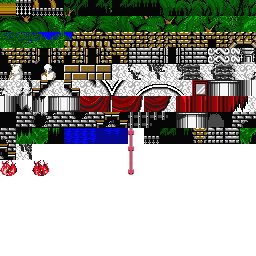
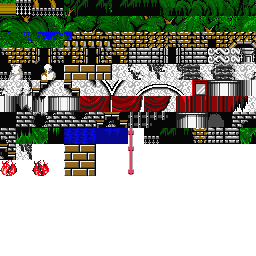
Block Entity has hitbox, Upgraded Cutscene (1h)
- Improved cutscene
- Block entity doesn't allow for movement.

Changed region(s): [[0.25, 0.5625, 0.375, 0.6875]]

diff --git a/src/Player.cpp b/src/Player.cpp
@@ -35,6 +35,8 @@ Player::Player(const Point& p, State s, Look view) :
 	playerTimer = 0;
 	startingHitTimer = 0;
 	startingHit = false;
+	patternCounter = 0;
+	touchingSolidEnemy = false;
 }
 Player::~Player()
 {
@@ -620,6 +622,14 @@ bool Player::GetIsHoldingShield() const
 {
 	return Player::isHoldingShield;
 }
+bool Player::GetTouchingSolidEnemy() const
+{
+	return touchingSolidEnemy;
+}
+void Player::SetTouchingSolidEnemy(bool setter)
+{
+	touchingSolidEnemy = setter;
+}
 void Player::SetHasYellowKey(bool boolean)
 {
 	hasYellowKey = boolean;
@@ -1178,75 +1188,42 @@ void Player::Update()
 }
 void Player::InitPattern()
 {
-	//const int n = ANIM_DELAY * 3;
-	//pattern.push_back({ {-PLAYER_SPEED, 0}, /*n*/0, (int)PlayerAnim::WALKING_LEFT });
-	//pattern.push_back({ {-PLAYER_SPEED, 0}, /*n*/0, (int)PlayerAnim::WALKING_LEFT });
-	//pattern.push_back({ {-PLAYER_SPEED, 0}, /*n*/0, (int)PlayerAnim::WALKING_LEFT });
-	//current_step = 0;
-	//current_frames = 0;
-	//patternFinished = false;
+
 	int i;
 	const int n = PLAYER_FRAME_SIZE_WIDTH;
 	const int h = PLAYER_FRAME_SIZE_HEIGHT;
 	Sprite* sprite = dynamic_cast<Sprite*>(render);
 	look = Look::LEFT;
 	sprite->SetAnimationDelay((int)PlayerAnim::CUTSCENE, ANIM_DELAY);
-	//for (i = 1; i < 3; ++i)
-	//{
-	//	sprite->AddKeyFrame((int)PlayerAnim::CUTSCENE, { (float)i * n, 0, -n, h });
-	//	sprite->AddKeyFrame((int)PlayerAnim::CUTSCENE, { (float)i * n, 0, -n, h });
-	//	sprite->AddKeyFrame((int)PlayerAnim::CUTSCENE, { (float)i * n, 0, -n, h });
 
-	//}
+	//Times for the walking animation to be repeated
+	for (int i = 0; i < 7; i++)
+	{
+		sprite->AddKeyFrame((int)PlayerAnim::CUTSCENE, { (float)0 * n, 0, -n, h });
+		sprite->AddKeyFrame((int)PlayerAnim::CUTSCENE, { (float)0 * n, 0, -n, h });
+		sprite->AddKeyFrame((int)PlayerAnim::CUTSCENE, { (float)1 * n, 0, -n, h });
+		sprite->AddKeyFrame((int)PlayerAnim::CUTSCENE, { (float)1 * n, 0, -n, h });
+		sprite->AddKeyFrame((int)PlayerAnim::CUTSCENE, { (float)2 * n, 0, -n, h });
+		sprite->AddKeyFrame((int)PlayerAnim::CUTSCENE, { (float)2 * n, 0, -n, h });
+		sprite->AddKeyFrame((int)PlayerAnim::CUTSCENE, { (float)1 * n, 0, -n, h });
+		sprite->AddKeyFrame((int)PlayerAnim::CUTSCENE, { (float)1 * n, 0, -n, h });
+	}
 	sprite->AddKeyFrame((int)PlayerAnim::CUTSCENE, { (float)0 * n, 0, -n, h });
-	sprite->AddKeyFrame((int)PlayerAnim::CUTSCENE, { (float)0 * n, 0, -n, h });
-	sprite->AddKeyFrame((int)PlayerAnim::CUTSCENE, { (float)1 * n, 0, -n, h });
-	sprite->AddKeyFrame((int)PlayerAnim::CUTSCENE, { (float)1 * n, 0, -n, h });
-	sprite->AddKeyFrame((int)PlayerAnim::CUTSCENE, { (float)2 * n, 0, -n, h });
-	sprite->AddKeyFrame((int)PlayerAnim::CUTSCENE, { (float)2 * n, 0, -n, h });
-	sprite->AddKeyFrame((int)PlayerAnim::CUTSCENE, { (float)1 * n, 0, -n, h });
-	sprite->AddKeyFrame((int)PlayerAnim::CUTSCENE, { (float)1 * n, 0, -n, h });
-	sprite->AddKeyFrame((int)PlayerAnim::CUTSCENE, { (float)0 * n, 0, -n, h });
-	sprite->AddKeyFrame((int)PlayerAnim::CUTSCENE, { (float)0 * n, 0, -n, h });
-	sprite->AddKeyFrame((int)PlayerAnim::CUTSCENE, { (float)1 * n, 0, -n, h });
-	sprite->AddKeyFrame((int)PlayerAnim::CUTSCENE, { (float)1 * n, 0, -n, h });
-	sprite->AddKeyFrame((int)PlayerAnim::CUTSCENE, { (float)2 * n, 0, -n, h });
-	sprite->AddKeyFrame((int)PlayerAnim::CUTSCENE, { (float)2 * n, 0, -n, h });
-	sprite->AddKeyFrame((int)PlayerAnim::CUTSCENE, { (float)1 * n, 0, -n, h });
-	sprite->AddKeyFrame((int)PlayerAnim::CUTSCENE, { (float)1 * n, 0, -n, h });
-	sprite->AddKeyFrame((int)PlayerAnim::CUTSCENE, { (float)0 * n, 0, -n, h });
-	sprite->AddKeyFrame((int)PlayerAnim::CUTSCENE, { (float)0 * n, 0, -n, h });
-	sprite->AddKeyFrame((int)PlayerAnim::CUTSCENE, { (float)1 * n, 0, -n, h });
-	sprite->AddKeyFrame((int)PlayerAnim::CUTSCENE, { (float)1 * n, 0, -n, h });
-	sprite->AddKeyFrame((int)PlayerAnim::CUTSCENE, { (float)2 * n, 0, -n, h });
-	sprite->AddKeyFrame((int)PlayerAnim::CUTSCENE, { (float)2 * n, 0, -n, h });
-	sprite->AddKeyFrame((int)PlayerAnim::CUTSCENE, { (float)1 * n, 0, -n, h });
-	sprite->AddKeyFrame((int)PlayerAnim::CUTSCENE, { (float)1 * n, 0, -n, h });
-	sprite->AddKeyFrame((int)PlayerAnim::CUTSCENE, { (float)0 * n, 0, -n, h});
-	sprite->AddKeyFrame((int)PlayerAnim::CUTSCENE, { (float)0 * n, 0, -n, h });
-	sprite->AddKeyFrame((int)PlayerAnim::CUTSCENE, { (float)1 * n, 0, -n, h });
-	sprite->AddKeyFrame((int)PlayerAnim::CUTSCENE, { (float)1 * n, 0, -n, h });
-	
 
-	sprite->AddKeyFrame((int)PlayerAnim::CUTSCENE, { (float)10 * n, 0, -n, h });
-	sprite->AddKeyFrame((int)PlayerAnim::CUTSCENE, { (float)10 * n, 0, -n, h });
-	sprite->AddKeyFrame((int)PlayerAnim::CUTSCENE, { (float)10 * n, 0, -n, h });
-	sprite->AddKeyFrame((int)PlayerAnim::CUTSCENE, { (float)10 * n, 0, -n, h });
-	sprite->AddKeyFrame((int)PlayerAnim::CUTSCENE, { (float)10 * n, 0, -n, h });
-	sprite->AddKeyFrame((int)PlayerAnim::CUTSCENE, { (float)10 * n, 0, -n, h });
-	sprite->AddKeyFrame((int)PlayerAnim::CUTSCENE, { (float)10 * n, 0, -n, h });
-	sprite->AddKeyFrame((int)PlayerAnim::CUTSCENE, { (float)10 * n, 0, -n, h });
-	sprite->AddKeyFrame((int)PlayerAnim::CUTSCENE, { (float)10 * n, 0, -n, h });
-	sprite->AddKeyFrame((int)PlayerAnim::CUTSCENE, { (float)10 * n, 0, -n, h });
-	
+	for (int i = 0; i < 11; i++)
+	{
+		sprite->AddKeyFrame((int)PlayerAnim::CUTSCENE, { (float)10 * n, 0, -n, h });
+	}
 
 	sprite->SetAnimation((int)PlayerAnim::CUTSCENE);
 
 }
 void Player::UpdatePattern()
 {
+	patternCounter++;
 	if (pos.x > 128)
-		pos.x = pos.x - 1;
+		if (patternCounter % 2 == 0)
+			pos.x = pos.x - 1;
 	/*Sprite* sprite = dynamic_cast<Sprite*>(render);
 	int anim_id;
 
@@ -1295,10 +1272,16 @@ void Player::MoveX()
 		}
 
 		box = GetHitbox();
-		if (map->TestCollisionWallLeft(box))
+		if (map->TestCollisionWallLeft(box) || pos.x < 0 || touchingSolidEnemy)
 		{
+			
 			pos.x = prev_x;
 			if (state == State::WALKING) Stop();
+			if (touchingSolidEnemy)
+			{
+				pos.x+=2;
+				touchingSolidEnemy = false;
+			}
 		}
 	}
 	else if ((IsKeyDown(KEY_RIGHT) || IsKeyDown(KEY_D)) && hasDied == false && state != State::ATTACKING)
@@ -1313,10 +1296,16 @@ void Player::MoveX()
 		}
 
 		box = GetHitbox();
-		if (map->TestCollisionWallRight(box))
+		if (map->TestCollisionWallRight(box) || pos.x > (WINDOW_WIDTH - width + 1) || touchingSolidEnemy)
 		{
+			
 			pos.x = prev_x;
 			if (state == State::WALKING) Stop();
+			if (touchingSolidEnemy)
+			{
+				pos.x-=2;
+				touchingSolidEnemy = false;
+			}
 		}
 	}
 	else

diff --git a/src/Scene.cpp b/src/Scene.cpp
@@ -457,7 +457,7 @@ AppStatus Scene::LoadLevel(int stage)
 				0,		0,		0,		0,		0,		0,		0,		0,		0,		0,		0,		0,		0,		0,		0,		0,
 				0,		0,		0,		0,		0,		0,		0,		0,		0,		0,		0,		0,		0,		0,		0,		0,
 				0,		0,		0,		0,		0,		0,		0,		0,		0,		0,		0,		0,		0,		0,		0,		0,
-				0,		0,		0,		0,		0,		0,		0,		0,		702,	0,		0,		0,		0,		0,		0,		0,
+				0,		0,		0,		0,		0,		0,		0,		0,		0,		0,		0,		0,		0,		0,		0,		0,
 				0,		0,		0,		0,		0,		0,		0,		0,		702,	0,		0,		0,		0,		0,		0,		0,
 				0,		0,		0,		0,		0,		0,		0,		0,		0,		0,		0,		0,		0,		0,		0,		0,
 			};
@@ -708,7 +708,7 @@ AppStatus Scene::LoadLevel(int stage)
 				0,		0,		0,		0,		0,		0,		0,		0,		0,		0,		0,		0,		0,		0,		0,		0,
 				0,		0,		0,		0,		0,		0,		0,		0,		0,		0,		0,		0,		0,		0,		0,		0,
 				0,		0,		0,		0,		0,		0,		0,		0,		0,		0,		0,		0,		0,		0,		0,		0,
-				0,		0,		0,		0,		0,		0,		0,		0,		0,		0,		0,		0,	 211,		0,		0,		0,
+				0,		0,		0,		0,		0,		0,		0,		0,		0,		0,		0,		0,	 210,		0,		0,		0,
 				0,		0,		0,		0,		0,		0,		0,		0,		0,		0,		0,		0,		0,		0,		0,		0,
 				0,		0,		0,		0,		0,		0,		0,		0,		402,	0,		0,		0,		0,		0,		0,		0,
 				0,		0,		0,		0,		0,		0,		0,		0,		0,		0,		0,		0,		0,		0,		0,		0,
@@ -1479,7 +1479,15 @@ void Scene::Update()
 	}
 	else
 	{
-		if (player->GetXPos() <= 0)
+		// currentLevel 3 receives a different teleport since it has the door before the end of the screen
+		if (currentLevel == 3 && player->GetXPos() >= 210)
+		{
+			fade_transition.SetScene(currentLevel + 1, currentLevel, 10, 10);
+			int tmpYPos = player->GetYPos() + 16;
+			LoadLevel(++currentLevel);
+			player->SetPos(Point(10, tmpYPos));
+		}
+		else if (player->GetXPos() <= 0)
 		{
 			switch (currentLevel)
 			{
@@ -1535,14 +1543,6 @@ void Scene::Update()
 			{
 				fade_transition.SetScene(currentLevel + 1, currentLevel, 10, 10);
 				int tmpYPos = player->GetYPos();
-				LoadLevel(++currentLevel);
-				player->SetPos(Point(10, tmpYPos));
-				break;
-			}
-			case 3:
-			{
-				fade_transition.SetScene(currentLevel + 1, currentLevel, 10, 10);
-				int tmpYPos = player->GetYPos() + 16;
 				LoadLevel(++currentLevel);
 				player->SetPos(Point(10, tmpYPos));
 				break;
@@ -1770,6 +1770,14 @@ void Scene::Update()
 		}
 	}
 	// TODO fix this as it is hurting the player if it still touches the enemy next frame.
+	if (enemies->GetIsSolidEnemy() == true)
+	{
+		player->SetTouchingSolidEnemy(true);
+	}
+	else if (enemies->GetIsSolidEnemy() == false)
+	{
+		player->SetTouchingSolidEnemy(false);
+	}
 	if (enemies->playerGettingHurt == true)
 	{
 		switch (currentLevel)

diff --git a/src/EnemyManager.cpp b/src/EnemyManager.cpp
@@ -16,6 +16,7 @@ EnemyManager::EnemyManager()
 	shots = nullptr;
 	playerGettingHurt = false;
 	particles = nullptr;
+	solidEnemy = false;
 	//totalEnemies = 0;
 }
 EnemyManager::~EnemyManager()
@@ -108,6 +109,10 @@ void EnemyManager::Add(const Point& pos, EnemyType type, const AABB& area, Look 
 	enemy->Initialise(look, area);
 	enemies.push_back(enemy);
 }
+bool EnemyManager::GetIsSolidEnemy() const
+{
+	return solidEnemy;
+}
 AABB EnemyManager::GetEnemyHitBox(const Point& pos, EnemyType type) const
 {
 	int width, height;
@@ -176,12 +181,18 @@ void EnemyManager::Update(const AABB& player_hitbox, const AABB& weapon_hitbox, 
 	for (Enemy* enemy : enemies)
 	{
 		box = enemy->GetHitbox();
+		solidEnemy = false;
 		if (box.TestAABB(player_hitbox) && enemy->IsAlive())
 		{
 			if (true && enemy->type != EnemyType::PYRE && enemy->type != EnemyType::CANDLE && enemy->type != EnemyType::BLOCKS)
 			{
 				playerGettingHurt = true;
-			}	
+			}
+			else if (enemy->type == EnemyType::BLOCKS)
+			{
+				solidEnemy = true;
+			}
+
 
 		}
 

diff --git a/src/DestroyableBlocks.cpp b/src/DestroyableBlocks.cpp
@@ -35,7 +35,7 @@ AppStatus DestroyableBlock::Initialise(Look look, const AABB& area)
 	sprite->SetAnimationDelay((int)DestroyableBlockAnim::STATIC, ANIM_DELAY + 8);
 	/*for (i = 1; i < 2; ++i)
 		sprite->AddKeyFrame((int)BatAnim::FLYING_RIGHT, { (float)i * n, 7 * n, -n, h });*/
-	sprite->AddKeyFrame((int)DestroyableBlockAnim::STATIC, { (float)4 * n, 4 * h, n * 2, h });
+	sprite->AddKeyFrame((int)DestroyableBlockAnim::STATIC, { (float)4 * (n/2), 9 * (h/2), n, h });
 
 	this->look = look;
 	sprite->SetAnimation((int)DestroyableBlockAnim::STATIC);

diff --git a/src/EnemyManager.h b/src/EnemyManager.h
@@ -23,6 +23,7 @@ public:
 	AABB GetEnemyHitBox(const Point& pos, EnemyType type) const;
 	void SetParticleManager(ParticleManager* particles);
 
+	bool GetIsSolidEnemy() const;
 	//Update enemies according to their logic. If the given player hitbox is visible to them,
 	//they will shoot by adding shots to the ShotManager
 	void Update(const AABB& player_hitbox, const AABB& weapon_hitbox, int &score);
@@ -50,5 +51,6 @@ private:
 	ShotManager* shots;
 	ParticleManager* particles;
 	Sound enemyHit;
+	bool solidEnemy;
 };
 

diff --git a/src/BlackLeopard.cpp b/src/BlackLeopard.cpp
@@ -152,14 +152,13 @@ void BlackLeopard::MoveX()
 }
 void BlackLeopard::MoveY()
 {
-	//pos.y += BLACKLEOPARD_SPEED * 2;
-	//AABB box, prev_box;
 
-	//box = GetHitbox();
-	//int prev_y;
+	pos.y += BLACKLEOPARD_SPEED * 0;
+	AABB box, prev_box;
 
-	//// For this reason this prevents zombie from going through the floor
-	//// even though it has nothing inside...
+	box = GetHitbox();
+	int prev_y;
+
 	//if (map->TestCollisionGround(box, &pos.y))
 	//{
 

diff --git a/src/Player.h b/src/Player.h
@@ -149,6 +149,9 @@ public:
 
 	bool GetIsHoldingShield() const;
 
+	bool GetTouchingSolidEnemy() const;
+	void SetTouchingSolidEnemy(bool setter);
+
 	void SetHasYellowKey(bool boolean);
 	bool GetHasYellowKey() const;
 	void SetHasWhiteKey(bool boolean);
@@ -234,6 +237,10 @@ private:
 	int lives;
 	int currentFrame;
 	int hearts;
+
+	int patternCounter;
+
+	bool touchingSolidEnemy;
 
 	bool hasDied;
 	bool gameOver;

diff --git a/src/Object.h b/src/Object.h
@@ -4,8 +4,6 @@
 #define OBJECT_PHYSICAL_SIZE	14
 #define OBJECT_FRAME_SIZE		16
 
-#define POINTS_APPLE	10
-#define POINTS_CHILI	20
 #define POINTS_BLUEBAG 1000
 #define POINTS_WHITEBAG 5000
 

diff --git a/src/Cutscene.cpp b/src/Cutscene.cpp
@@ -62,7 +62,7 @@ void Cutscene::UpdateCutscene()
 	{
 		posx--;
 	}
-	if (timer==280)
+	if (timer==440 || IsKeyPressed(KEY_SPACE))
 	{
 		timer = 0;
 		cutsceneFinished = true;

diff --git a/src/Enemy.h b/src/Enemy.h
@@ -50,7 +50,7 @@
 #define PYRE_FRAME_SIZE 16
 #define PYRE_PHYSICAL_SIZE 16
 
-#define BLOCKS_FRAME_SIZE 16
+#define BLOCKS_FRAME_SIZE 32
 
 
 
